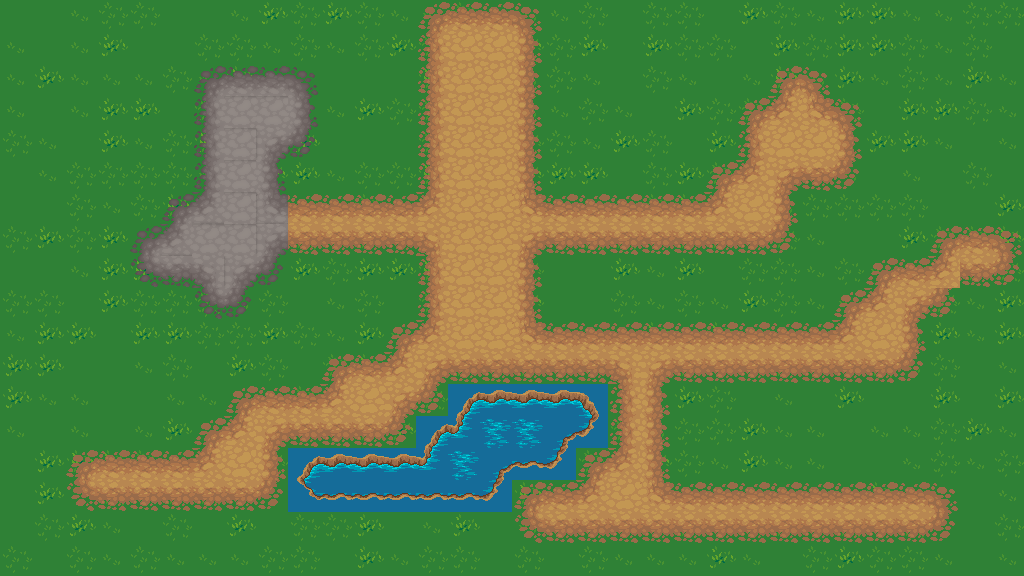
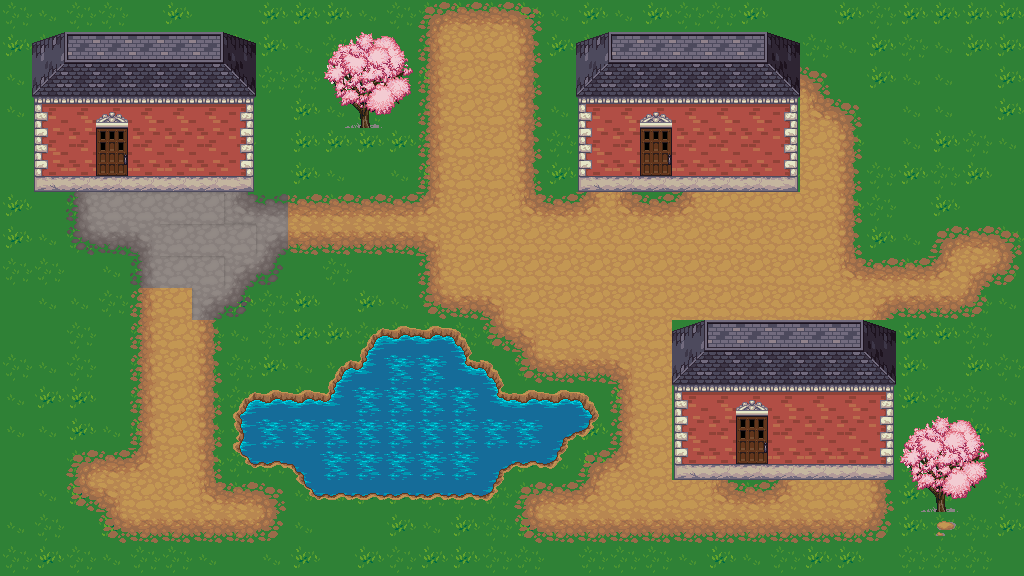
Roll back to here if I brake everything

diff --git a/mapGen.py b/mapGen.py
@@ -159,6 +159,21 @@ class Map():
                 if getColor(getPixel(img, x, y)) == white: continue
                 setColor(getPixel(self.map, startx + x, starty + y), getColor(getPixel(img, x, y)))
 
+    def placeStruct(self, struct, spot):
+        startx = (spot * bits) % backWidth
+        starty = ((spot * bits) / backWidth) * bits
+        structWidth = getWidth(struct) / bits
+        structHeight = getHeight(struct) / bits
+        for structx in range(0, structWidth):
+            for structy in range(0, structHeight):
+                curr = spotToCoord(spot)
+                newSpot = tileCoordToSpot(Coords(curr.x + structx, curr.y + structy))
+                self.tileMap.update({newSpot: water}) #replace water with a blank tile
+                for x in range(0,bits):
+                    for y in range(0,bits):
+                        if getColor(getPixel(struct, x + structx * bits, y + structy * bits)) == white: continue
+                        setColor(getPixel(self.map, startx + x + structx * bits, starty + y + structy * bits), getColor(getPixel(struct, x + structx * bits, y + structy * bits)))
+
     def updateBackground(self, tiles, back):
         for spot in range(0, len(tiles)):
             # dirs [right, left, up, down, downRight, downLeft, upRight, upLeft]
@@ -181,8 +196,8 @@ class Map():
             elif tiles[spot] == "s": self.placeTex(stone, spot, around)
             elif tiles[spot] == "d": self.placeTex(dirt, spot, around)
             elif tiles[spot] == "w": self.placeTex(water, spot, around)
-            elif tiles[spot] == "h": self.placeTex(houseWall, spot, around)
-            elif tiles[spot] == "r": self.placeTex(houseRoof, spot, around)
+            elif tiles[spot] == "h": self.placeStruct(house, spot)
+            elif tiles[spot] == "t": self.placeStruct(tree1, spot)
             repaint(self.map)
             #not in files yet
             #elif tiles[spot] == "m": placeTex(monster, spot)
@@ -238,32 +253,37 @@ waterMap = makePicture(tilesPath + "water.png")
 waterArr = tileMapToArr(waterMap)
 water = Tile(waterArr, false, true, false, "stone")
 
+#structures
+structPath = path + "Tiles/LPC/structures/"
+house = makePicture(structPath + "house.png")
+tree1 = makePicture(structPath + "tree1.png")
+
 #get width and height
 texWidth = getWidth(textureMap)
 texHeight = getHeight(textureMap)
 #initailize textures
 #  Tile(imgArr, isTraversable, isPassable, isTough, desc)
 
-paths = ["d", "s", "h", "r"]
+paths = ["d", "s", "h", ".", "o"]
 #create emply grass field will clean up later
-home  = "gggggggggggggddddggggggggggggggg"
-home += "gggggggggggggddddggggggggggggggg"
-home += "ggggggssssgggddddgggggggddgggggg"
-home += "ggggggssssgggddddggggggddddggggg"
-home += "ggggggssssgggddddggggggddddggggg"
-home += "ggggggsssggggddddgggggdddddggggg"
-home += "gggggssssddddddddddddddddggggggg"
-home += "ggggsssssddddddddddddddddggggddd"
-home += "ggggsssssggggddddggggggggggddddd"
-home += "ggggggssgggggddddgggggggggddddgg"
-home += "ggggggggggggdddddddddddddddddggg"
-home += "ggggggggggdddddddddddddddddddggg"
-home += "gggggggdddddddwwwwwddggggggggggg"
-home += "ggggggdddddddwwwwwwddggggggggggg"
-home += "ggdddddddwwwwwwwwwdddggggggggggg"
-home += "ggdddddddwwwwwwwddddddddddddddgg"
-home += "ggggggggggggggggddddddddddddddgg"
-home += "gggggggggggggggggggggggggggggggg"
+home  = "fffffffffffffddddfffffffffffffff"
+home += "fh......ggt,,ddddgh......ggggggf"
+home += "f.......gg,,,ddddg.......dgggggf"
+home += "f.......gg,,,ddddg.......ddggggf"
+home += "f.......gggggddddg..o....ddggggf"
+home += "f.......gggggddddg..o....ddggggf"
+home += "fgsssssssddddddddddddddddddggggf"
+home += "fgsssssssddddddddddddddddddggddd"
+home += "fgggsssssggggddddddddddddddddddd"
+home += "fgggddssgggggddddddddddddddddddf"
+home += "fgggdddggggwwwwddddddh......gggf"
+home += "fgggdddgggwwwwwwddddd.......gggf"
+home += "fgggdddwwwwwwwwwwwwdd.......gggf"
+home += "fgggdddwwwwwwwwwwwwdd..o....t,,f"
+home += "fgdddddwwwwwwwwwwwddd..o....,,,f"
+home += "fgdddddddwwwwwwwdddddddddddd,,,f"
+home += "fggddddddgggggggddddddddddddgdgf"
+home += "ffffffffffffffffffffffffffffffff"
 #initailize background image
 backWidth = bits * widthTiles
 backHeight = bits * heightTiles
